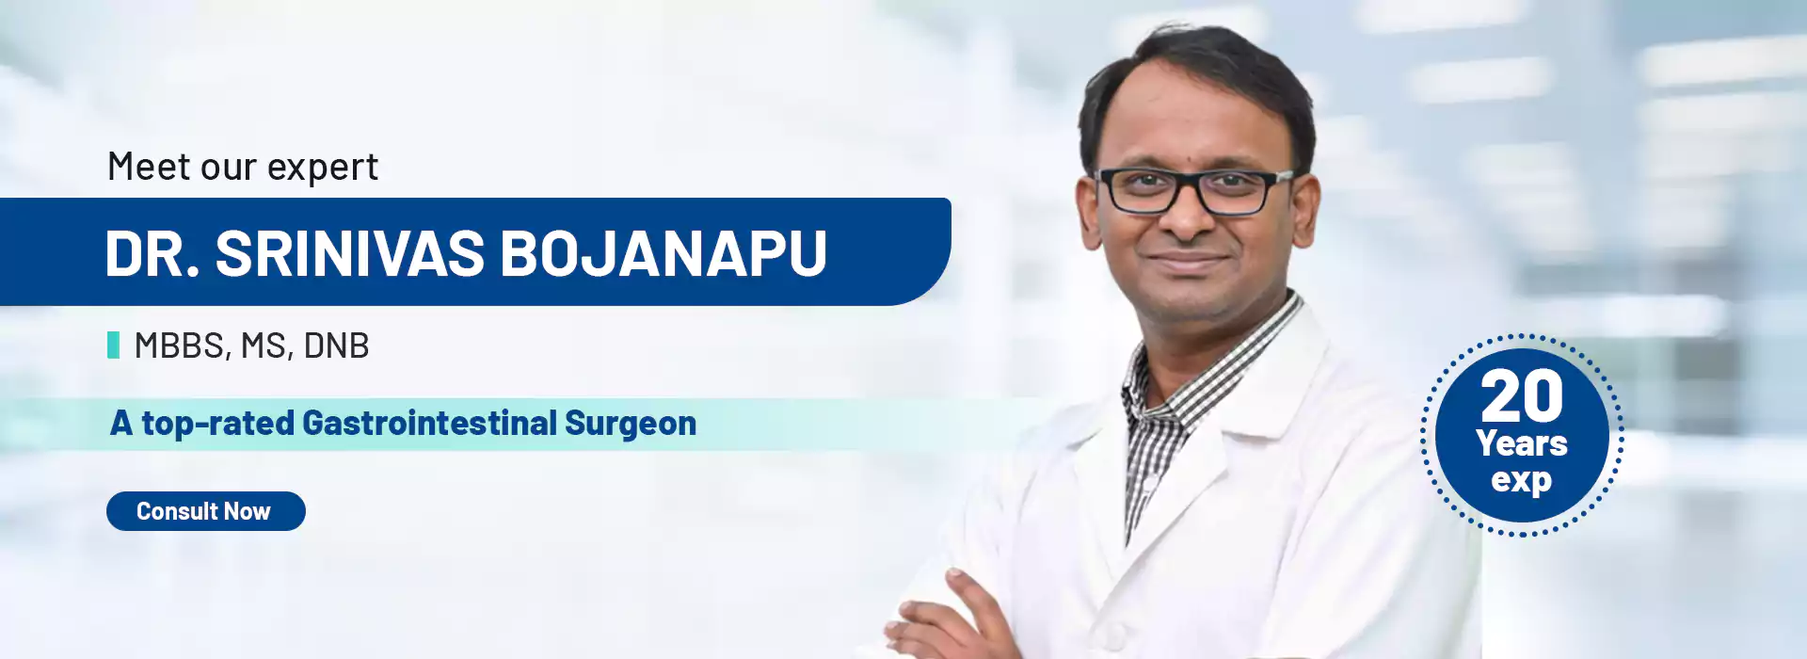
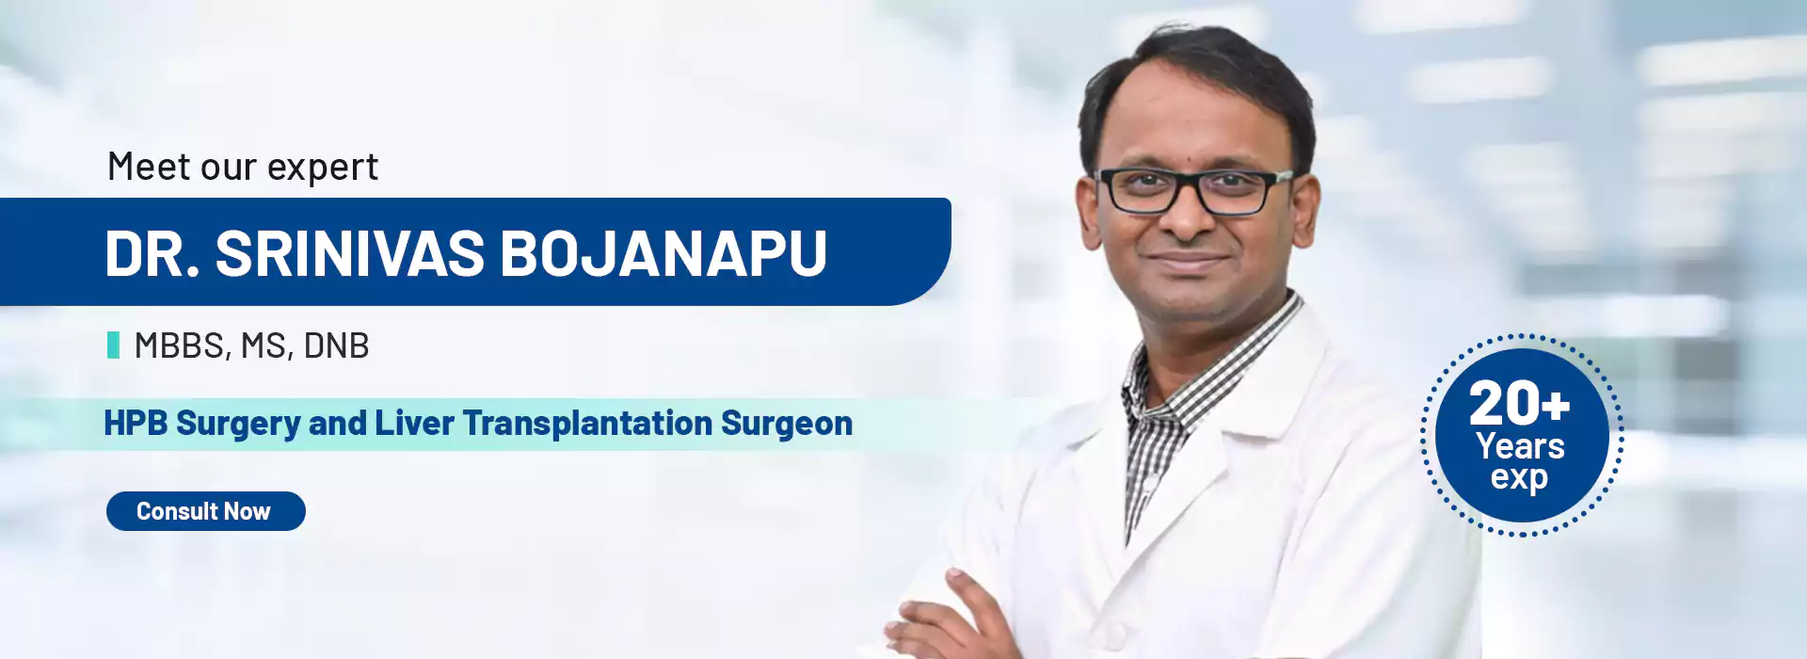
error commit

Changed region(s): [[0.0312, 0.6, 0.4688, 0.66], [0.8125, 0.54, 0.875, 0.75]]

diff --git a/pancreatitis-tumors-of-pancreas.html b/pancreatitis-tumors-of-pancreas.html
@@ -713,7 +713,7 @@ The pancreas is essential for digestion and regulating blood sugar levels, but c
                             <h3 class="widget_title" style="font-size: 18px;text-align: center;margin-bottom: 4px;">DR. SRINIVAS BOJANAPU</h3>
                                </div>
                                <div style="display: flex;justify-content: center;">
-                                <P  style="text-align: center;line-height: 24px;font-size: 14px;margin-top: 6px;">Dr. Srinivas Bojanapu, MBBS, MS, DNB, is a top-rated Gastrointestinal Surgeon with 20 years’ experience.</P>
+                                <P  style="text-align: center;line-height: 24px;font-size: 14px;margin-top: 6px;">Dr. Srinivas Bojanapu, MBBS, MS, DNB, is a top-rated Gastrointestinal Surgeon with 20+ years’ experience.</P>
                                </div>
                             </div>
                             <h3 style="font-size: 20px;margin-bottom: 18px;margin-top: 10px;" class="widget_title">Pancreatitis & Tumors Of Pancreas</h3>
@@ -740,7 +740,7 @@ The pancreas is essential for digestion and regulating blood sugar levels, but c
                                         <i class="fal fa-shopping-cart"></i>
                                         <span class="badge">5</span>
                                     </button> -->
-                                    <a  style="background-color: #3fd2c7;color: white;padding: 10px 20px ;" href="contact.html">Make Appointment<i class="fas fa-arrow-right ms-1"></i></a>
+                                    <a  style="background-color: #3fd2c7;color: white;padding: 10px 20px ;" href="tel:87478 74888">Make Appointment<i class="fas fa-arrow-right ms-1"></i></a>
                                 </div>
 
                                 <iframe src="https://www.google.com/maps/embed?pb=!1m18!1m12!1m3!1d3889.8250915873705!2d77.66010747470473!3d12.85457108745015!2m3!1f0!2f0!3f0!3m2!1i1024!2i768!4f13.1!3m3!1m2!1s0x3bae6c995c78377f%3A0x215832c1388cb662!2sKauvery%20Hospital!5e0!3m2!1sen!2sin!4v1725948629357!5m2!1sen!2sin" style="border:0;width: 100%;height: 150px;border: 1px solid rgb(215, 215, 215);border-radius: 10px;margin-top: 20px;" allowfullscreen="" loading="lazy" referrerpolicy="no-referrer-when-downgrade"></iframe>
@@ -748,7 +748,7 @@ The pancreas is essential for digestion and regulating blood sugar levels, but c
                             <P  style="text-align: center;line-height: 24px;font-size: 14px;margin-top: 10px;margin-bottom: 10px;">No 92, Hubli Survey, 1 B, Hewlett Packard Avenue, Konappana Agrahara, Electronic City, Bengaluru, Karnataka 560100</P>
                                 <div style="display: flex;justify-content: center;" class="header-button">
                                     
-                                    <a  style="background-color: #3fd2c7;color: white;padding: 10px 20px ;" href="contact.html">Make Appointment<i class="fas fa-arrow-right ms-1"></i></a>
+                                    <a  style="background-color: #3fd2c7;color: white;padding: 10px 20px ;" href="tel:87478 74888">Make Appointment<i class="fas fa-arrow-right ms-1"></i></a>
                                 </div>
                         </div>
                         <!-- <div class="widget widget_download  ">

diff --git a/tumors-of-liver.html b/tumors-of-liver.html
@@ -660,7 +660,7 @@ Tumors of the liver can be broadly categorized into primary and secondary types.
                             <h3 class="widget_title" style="font-size: 18px;text-align: center;margin-bottom: 4px;">DR. SRINIVAS BOJANAPU</h3>
                                </div>
                                <div style="display: flex;justify-content: center;">
-                                <P  style="text-align: center;line-height: 24px;font-size: 14px;margin-top: 6px;">Dr. Srinivas Bojanapu, MBBS, MS, DNB, is a top-rated Gastrointestinal Surgeon with 20 years’ experience.</P>
+                                <P  style="text-align: center;line-height: 24px;font-size: 14px;margin-top: 6px;">Dr. Srinivas Bojanapu, MBBS, MS, DNB, is a top-rated Gastrointestinal Surgeon with 20+ years’ experience.</P>
                                </div>
                             </div>
                             <h3 style="font-size: 20px;margin-bottom: 18px;margin-top: 10px;" class="widget_title">Tumors Of Liver</h3>
@@ -683,7 +683,7 @@ Tumors of the liver can be broadly categorized into primary and secondary types.
                                         <i class="fal fa-shopping-cart"></i>
                                         <span class="badge">5</span>
                                     </button> -->
-                                    <a  style="background-color: #3fd2c7;color: white;padding: 10px 20px ;" href="contact.html">Make Appointment<i class="fas fa-arrow-right ms-1"></i></a>
+                                    <a  style="background-color: #3fd2c7;color: white;padding: 10px 20px ;" href="tel:87478 74888">Make Appointment<i class="fas fa-arrow-right ms-1"></i></a>
                                 </div>
 
                                 <iframe src="https://www.google.com/maps/embed?pb=!1m18!1m12!1m3!1d3889.8250915873705!2d77.66010747470473!3d12.85457108745015!2m3!1f0!2f0!3f0!3m2!1i1024!2i768!4f13.1!3m3!1m2!1s0x3bae6c995c78377f%3A0x215832c1388cb662!2sKauvery%20Hospital!5e0!3m2!1sen!2sin!4v1725948629357!5m2!1sen!2sin" style="border:0;width: 100%;height: 150px;border: 1px solid rgb(215, 215, 215);border-radius: 10px;margin-top: 20px;" allowfullscreen="" loading="lazy" referrerpolicy="no-referrer-when-downgrade"></iframe>
@@ -691,7 +691,7 @@ Tumors of the liver can be broadly categorized into primary and secondary types.
                             <P  style="text-align: center;line-height: 24px;font-size: 14px;margin-top: 10px;margin-bottom: 10px;">No 92, Hubli Survey, 1 B, Hewlett Packard Avenue, Konappana Agrahara, Electronic City, Bengaluru, Karnataka 560100</P>
                                 <div style="display: flex;justify-content: center;" class="header-button">
                                     
-                                    <a  style="background-color: #3fd2c7;color: white;padding: 10px 20px ;" href="contact.html">Make Appointment<i class="fas fa-arrow-right ms-1"></i></a>
+                                    <a  style="background-color: #3fd2c7;color: white;padding: 10px 20px ;" href="tel:87478 74888">Make Appointment<i class="fas fa-arrow-right ms-1"></i></a>
                                 </div>
                         </div>
                         <!-- <div class="widget widget_download  ">

diff --git a/other-diseases-of-the-colon-and-small-intestine.html b/other-diseases-of-the-colon-and-small-intestine.html
@@ -686,7 +686,7 @@ Hero Area
                             <h3 class="widget_title" style="font-size: 18px;text-align: center;margin-bottom: 4px;">DR. SRINIVAS BOJANAPU</h3>
                                </div>
                                <div style="display: flex;justify-content: center;">
-                                <P  style="text-align: center;line-height: 24px;font-size: 14px;margin-top: 6px;">Dr. Srinivas Bojanapu, MBBS, MS, DNB, is a top-rated Gastrointestinal Surgeon with 20 years’ experience.</P>
+                                <P  style="text-align: center;line-height: 24px;font-size: 14px;margin-top: 6px;">Dr. Srinivas Bojanapu, MBBS, MS, DNB, is a top-rated Gastrointestinal Surgeon with 20+ years’ experience.</P>
                                </div>
                             </div>
                             <h3 style="font-size: 20px;margin-bottom: 18px;margin-top: 10px;" class="widget_title">Other Diseases Of The Colon (large intestine) And Small Intestine</h3>
@@ -712,7 +712,7 @@ Hero Area
                                         <i class="fal fa-shopping-cart"></i>
                                         <span class="badge">5</span>
                                     </button> -->
-                                    <a  style="background-color: #3fd2c7;color: white;padding: 10px 20px ;" href="contact.html">Make Appointment<i class="fas fa-arrow-right ms-1"></i></a>
+                                    <a  style="background-color: #3fd2c7;color: white;padding: 10px 20px ;" href="tel:87478 74888">Make Appointment<i class="fas fa-arrow-right ms-1"></i></a>
                                 </div>
 
                                 <iframe src="https://www.google.com/maps/embed?pb=!1m18!1m12!1m3!1d3889.8250915873705!2d77.66010747470473!3d12.85457108745015!2m3!1f0!2f0!3f0!3m2!1i1024!2i768!4f13.1!3m3!1m2!1s0x3bae6c995c78377f%3A0x215832c1388cb662!2sKauvery%20Hospital!5e0!3m2!1sen!2sin!4v1725948629357!5m2!1sen!2sin" style="border:0;width: 100%;height: 150px;border: 1px solid rgb(215, 215, 215);border-radius: 10px;margin-top: 20px;" allowfullscreen="" loading="lazy" referrerpolicy="no-referrer-when-downgrade"></iframe>
@@ -720,7 +720,7 @@ Hero Area
                             <P  style="text-align: center;line-height: 24px;font-size: 14px;margin-top: 10px;margin-bottom: 10px;">No 92, Hubli Survey, 1 B, Hewlett Packard Avenue, Konappana Agrahara, Electronic City, Bengaluru, Karnataka 560100</P>
                                 <div style="display: flex;justify-content: center;" class="header-button">
                                     
-                                    <a  style="background-color: #3fd2c7;color: white;padding: 10px 20px ;" href="contact.html">Make Appointment<i class="fas fa-arrow-right ms-1"></i></a>
+                                    <a  style="background-color: #3fd2c7;color: white;padding: 10px 20px ;" href="tel:87478 74888">Make Appointment<i class="fas fa-arrow-right ms-1"></i></a>
                                 </div>
                         </div>
                         <!-- <div class="widget widget_download  ">

diff --git a/best-treatment-for-colon-and-rectal-cancer.html b/best-treatment-for-colon-and-rectal-cancer.html
@@ -663,7 +663,7 @@ Hero Area
                             <h3 class="widget_title" style="font-size: 18px;text-align: center;margin-bottom: 4px;">DR. SRINIVAS BOJANAPU</h3>
                                </div>
                                <div style="display: flex;justify-content: center;">
-                                <P  style="text-align: center;line-height: 24px;font-size: 14px;margin-top: 6px;">Dr. Srinivas Bojanapu, MBBS, MS, DNB, is a top-rated Gastrointestinal Surgeon with 20 years’ experience.</P>
+                                <P  style="text-align: center;line-height: 24px;font-size: 14px;margin-top: 6px;">Dr. Srinivas Bojanapu, MBBS, MS, DNB, is a top-rated Gastrointestinal Surgeon with 20+ years’ experience.</P>
                                </div>
                             </div>
                             <h3 style="font-size: 20px;margin-bottom: 18px;margin-top: 10px;" class="widget_title">Best Treatment for Colon and Rectal Cancer</h3>
@@ -687,7 +687,7 @@ Hero Area
                                         <i class="fal fa-shopping-cart"></i>
                                         <span class="badge">5</span>
                                     </button> -->
-                                    <a  style="background-color: #3fd2c7;color: white;padding: 10px 20px ;" href="contact.html">Make Appointment<i class="fas fa-arrow-right ms-1"></i></a>
+                                    <a  style="background-color: #3fd2c7;color: white;padding: 10px 20px ;" href="tel:87478 74888">Make Appointment<i class="fas fa-arrow-right ms-1"></i></a>
                                 </div>
 
                                 <iframe src="https://www.google.com/maps/embed?pb=!1m18!1m12!1m3!1d3889.8250915873705!2d77.66010747470473!3d12.85457108745015!2m3!1f0!2f0!3f0!3m2!1i1024!2i768!4f13.1!3m3!1m2!1s0x3bae6c995c78377f%3A0x215832c1388cb662!2sKauvery%20Hospital!5e0!3m2!1sen!2sin!4v1725948629357!5m2!1sen!2sin" style="border:0;width: 100%;height: 150px;border: 1px solid rgb(215, 215, 215);border-radius: 10px;margin-top: 20px;" allowfullscreen="" loading="lazy" referrerpolicy="no-referrer-when-downgrade"></iframe>
@@ -695,7 +695,7 @@ Hero Area
                             <P  style="text-align: center;line-height: 24px;font-size: 14px;margin-top: 10px;margin-bottom: 10px;">No 92, Hubli Survey, 1 B, Hewlett Packard Avenue, Konappana Agrahara, Electronic City, Bengaluru, Karnataka 560100</P>
                                 <div style="display: flex;justify-content: center;" class="header-button">
                                     
-                                    <a  style="background-color: #3fd2c7;color: white;padding: 10px 20px ;" href="contact.html">Make Appointment<i class="fas fa-arrow-right ms-1"></i></a>
+                                    <a  style="background-color: #3fd2c7;color: white;padding: 10px 20px ;" href="tel:87478 74888">Make Appointment<i class="fas fa-arrow-right ms-1"></i></a>
                                 </div>
                         </div>
                         <!-- <div class="widget widget_download  ">

diff --git a/cancer-of-stomach.html b/cancer-of-stomach.html
@@ -661,7 +661,7 @@ Hero Area
                             <h3 class="widget_title" style="font-size: 18px;text-align: center;margin-bottom: 4px;">DR. SRINIVAS BOJANAPU</h3>
                                </div>
                                <div style="display: flex;justify-content: center;">
-                                <P  style="text-align: center;line-height: 24px;font-size: 14px;margin-top: 6px;">Dr. Srinivas Bojanapu, MBBS, MS, DNB, is a top-rated Gastrointestinal Surgeon with 20 years’ experience.</P>
+                                <P  style="text-align: center;line-height: 24px;font-size: 14px;margin-top: 6px;">Dr. Srinivas Bojanapu, MBBS, MS, DNB, is a top-rated Gastrointestinal Surgeon with 20+ years’ experience.</P>
                                </div>
                             </div>
                             <h3 style="font-size: 20px;margin-bottom: 18px;margin-top: 10px;" class="widget_title">Pancreatitis & Tumors Of Pancreas</h3>
@@ -684,7 +684,7 @@ Hero Area
                                         <i class="fal fa-shopping-cart"></i>
                                         <span class="badge">5</span>
                                     </button> -->
-                                    <a  style="background-color: #3fd2c7;color: white;padding: 10px 20px ;" href="contact.html">Make Appointment<i class="fas fa-arrow-right ms-1"></i></a>
+                                    <a  style="background-color: #3fd2c7;color: white;padding: 10px 20px ;" href="tel:87478 74888">Make Appointment<i class="fas fa-arrow-right ms-1"></i></a>
                                 </div>
 
                                 <iframe src="https://www.google.com/maps/embed?pb=!1m18!1m12!1m3!1d3889.8250915873705!2d77.66010747470473!3d12.85457108745015!2m3!1f0!2f0!3f0!3m2!1i1024!2i768!4f13.1!3m3!1m2!1s0x3bae6c995c78377f%3A0x215832c1388cb662!2sKauvery%20Hospital!5e0!3m2!1sen!2sin!4v1725948629357!5m2!1sen!2sin" style="border:0;width: 100%;height: 150px;border: 1px solid rgb(215, 215, 215);border-radius: 10px;margin-top: 20px;" allowfullscreen="" loading="lazy" referrerpolicy="no-referrer-when-downgrade"></iframe>
@@ -692,7 +692,7 @@ Hero Area
                             <P  style="text-align: center;line-height: 24px;font-size: 14px;margin-top: 10px;margin-bottom: 10px;">No 92, Hubli Survey, 1 B, Hewlett Packard Avenue, Konappana Agrahara, Electronic City, Bengaluru, Karnataka 560100</P>
                                 <div style="display: flex;justify-content: center;" class="header-button">
                                     
-                                    <a  style="background-color: #3fd2c7;color: white;padding: 10px 20px ;" href="contact.html">Make Appointment<i class="fas fa-arrow-right ms-1"></i></a>
+                                    <a  style="background-color: #3fd2c7;color: white;padding: 10px 20px ;" href="tel:87478 74888">Make Appointment<i class="fas fa-arrow-right ms-1"></i></a>
                                 </div>
                         </div>
                         <!-- <div class="widget widget_download  ">

diff --git a/gall-bladder-and-biliary-tree.html b/gall-bladder-and-biliary-tree.html
@@ -682,7 +682,7 @@ Hero Area
                             <h3 class="widget_title" style="font-size: 18px;text-align: center;margin-bottom: 4px;">DR. SRINIVAS BOJANAPU</h3>
                                </div>
                                <div style="display: flex;justify-content: center;">
-                                <P  style="text-align: center;line-height: 24px;font-size: 14px;margin-top: 6px;">Dr. Srinivas Bojanapu, MBBS, MS, DNB, is a top-rated Gastrointestinal Surgeon with 20 years’ experience.</P>
+                                <P  style="text-align: center;line-height: 24px;font-size: 14px;margin-top: 6px;">Dr. Srinivas Bojanapu, MBBS, MS, DNB, is a top-rated Gastrointestinal Surgeon with 20+ years’ experience.</P>
                                </div>
                             </div>
                             <h3 style="font-size: 20px;margin-bottom: 18px;margin-top: 10px;" class="widget_title">Gall bladder and Biliary tree</h3>
@@ -707,7 +707,7 @@ Hero Area
                                         <i class="fal fa-shopping-cart"></i>
                                         <span class="badge">5</span>
                                     </button> -->
-                                    <a  style="background-color: #3fd2c7;color: white;padding: 10px 20px ;" href="contact.html">Make Appointment<i class="fas fa-arrow-right ms-1"></i></a>
+                                    <a  style="background-color: #3fd2c7;color: white;padding: 10px 20px ;" href="tel:87478 74888">Make Appointment<i class="fas fa-arrow-right ms-1"></i></a>
                                 </div>
 
                                 <iframe src="https://www.google.com/maps/embed?pb=!1m18!1m12!1m3!1d3889.8250915873705!2d77.66010747470473!3d12.85457108745015!2m3!1f0!2f0!3f0!3m2!1i1024!2i768!4f13.1!3m3!1m2!1s0x3bae6c995c78377f%3A0x215832c1388cb662!2sKauvery%20Hospital!5e0!3m2!1sen!2sin!4v1725948629357!5m2!1sen!2sin" style="border:0;width: 100%;height: 150px;border: 1px solid rgb(215, 215, 215);border-radius: 10px;margin-top: 20px;" allowfullscreen="" loading="lazy" referrerpolicy="no-referrer-when-downgrade"></iframe>
@@ -715,7 +715,7 @@ Hero Area
                             <P  style="text-align: center;line-height: 24px;font-size: 14px;margin-top: 10px;margin-bottom: 10px;">No 92, Hubli Survey, 1 B, Hewlett Packard Avenue, Konappana Agrahara, Electronic City, Bengaluru, Karnataka 560100</P>
                                 <div style="display: flex;justify-content: center;" class="header-button">
                                     
-                                    <a  style="background-color: #3fd2c7;color: white;padding: 10px 20px ;" href="contact.html">Make Appointment<i class="fas fa-arrow-right ms-1"></i></a>
+                                    <a  style="background-color: #3fd2c7;color: white;padding: 10px 20px ;" href="tel:87478 74888">Make Appointment<i class="fas fa-arrow-right ms-1"></i></a>
                                 </div>
                         </div>
                         <!-- <div class="widget widget_download  ">

diff --git a/spleen-removal-or-splenectomy.html b/spleen-removal-or-splenectomy.html
@@ -665,7 +665,7 @@ Hero Area
                             <h3 class="widget_title" style="font-size: 18px;text-align: center;margin-bottom: 4px;">DR. SRINIVAS BOJANAPU</h3>
                                </div>
                                <div style="display: flex;justify-content: center;">
-                                <P  style="text-align: center;line-height: 24px;font-size: 14px;margin-top: 6px;">Dr. Srinivas Bojanapu, MBBS, MS, DNB, is a top-rated Gastrointestinal Surgeon with 20 years’ experience.</P>
+                                <P  style="text-align: center;line-height: 24px;font-size: 14px;margin-top: 6px;">Dr. Srinivas Bojanapu, MBBS, MS, DNB, is a top-rated Gastrointestinal Surgeon with 20+ years’ experience.</P>
                                </div>
                             </div>
                             <h3 style="font-size: 20px;margin-bottom: 18px;margin-top: 10px;" class="widget_title">Spleen removal or splenectomy</h3>
@@ -688,7 +688,7 @@ Hero Area
                                         <i class="fal fa-shopping-cart"></i>
                                         <span class="badge">5</span>
                                     </button> -->
-                                    <a  style="background-color: #3fd2c7;color: white;padding: 10px 20px ;" href="contact.html">Make Appointment<i class="fas fa-arrow-right ms-1"></i></a>
+                                    <a  style="background-color: #3fd2c7;color: white;padding: 10px 20px ;" href="tel:87478 74888">Make Appointment<i class="fas fa-arrow-right ms-1"></i></a>
                                 </div>
 
                                 <iframe src="https://www.google.com/maps/embed?pb=!1m18!1m12!1m3!1d3889.8250915873705!2d77.66010747470473!3d12.85457108745015!2m3!1f0!2f0!3f0!3m2!1i1024!2i768!4f13.1!3m3!1m2!1s0x3bae6c995c78377f%3A0x215832c1388cb662!2sKauvery%20Hospital!5e0!3m2!1sen!2sin!4v1725948629357!5m2!1sen!2sin" style="border:0;width: 100%;height: 150px;border: 1px solid rgb(215, 215, 215);border-radius: 10px;margin-top: 20px;" allowfullscreen="" loading="lazy" referrerpolicy="no-referrer-when-downgrade"></iframe>
@@ -696,7 +696,7 @@ Hero Area
                             <P  style="text-align: center;line-height: 24px;font-size: 14px;margin-top: 10px;margin-bottom: 10px;">No 92, Hubli Survey, 1 B, Hewlett Packard Avenue, Konappana Agrahara, Electronic City, Bengaluru, Karnataka 560100</P>
                                 <div style="display: flex;justify-content: center;" class="header-button">
                                     
-                                    <a  style="background-color: #3fd2c7;color: white;padding: 10px 20px ;" href="contact.html">Make Appointment<i class="fas fa-arrow-right ms-1"></i></a>
+                                    <a  style="background-color: #3fd2c7;color: white;padding: 10px 20px ;" href="tel:87478 74888">Make Appointment<i class="fas fa-arrow-right ms-1"></i></a>
                                 </div>
                         </div>
                         <!-- <div class="widget widget_download  ">

diff --git a/esophagus-treatment.html b/esophagus-treatment.html
@@ -670,7 +670,7 @@ Hero Area
                             <h3 class="widget_title" style="font-size: 18px;text-align: center;margin-bottom: 4px;">DR. SRINIVAS BOJANAPU</h3>
                                </div>
                                <div style="display: flex;justify-content: center;">
-                                <P  style="text-align: center;line-height: 24px;font-size: 14px;margin-top: 6px;">Dr. Srinivas Bojanapu, MBBS, MS, DNB, is a top-rated Gastrointestinal Surgeon with 20 years’ experience.</P>
+                                <P  style="text-align: center;line-height: 24px;font-size: 14px;margin-top: 6px;">Dr. Srinivas Bojanapu, MBBS, MS, DNB, is a top-rated Gastrointestinal Surgeon with 20+ years’ experience.</P>
                                </div>
                             </div>
                             <h3 style="font-size: 20px;margin-bottom: 18px;margin-top: 10px;" class="widget_title">Esophagus Treatment</h3>
@@ -694,7 +694,7 @@ Hero Area
                                         <i class="fal fa-shopping-cart"></i>
                                         <span class="badge">5</span>
                                     </button> -->
-                                    <a  style="background-color: #3fd2c7;color: white;padding: 10px 20px ;" href="contact.html">Make Appointment<i class="fas fa-arrow-right ms-1"></i></a>
+                                    <a  style="background-color: #3fd2c7;color: white;padding: 10px 20px ;" href="tel:87478 74888">Make Appointment<i class="fas fa-arrow-right ms-1"></i></a>
                                 </div>
 
                                 <iframe src="https://www.google.com/maps/embed?pb=!1m18!1m12!1m3!1d3889.8250915873705!2d77.66010747470473!3d12.85457108745015!2m3!1f0!2f0!3f0!3m2!1i1024!2i768!4f13.1!3m3!1m2!1s0x3bae6c995c78377f%3A0x215832c1388cb662!2sKauvery%20Hospital!5e0!3m2!1sen!2sin!4v1725948629357!5m2!1sen!2sin" style="border:0;width: 100%;height: 150px;border: 1px solid rgb(215, 215, 215);border-radius: 10px;margin-top: 20px;" allowfullscreen="" loading="lazy" referrerpolicy="no-referrer-when-downgrade"></iframe>
@@ -702,7 +702,7 @@ Hero Area
                             <P  style="text-align: center;line-height: 24px;font-size: 14px;margin-top: 10px;margin-bottom: 10px;">No 92, Hubli Survey, 1 B, Hewlett Packard Avenue, Konappana Agrahara, Electronic City, Bengaluru, Karnataka 560100</P>
                                 <div style="display: flex;justify-content: center;" class="header-button">
                                     
-                                    <a  style="background-color: #3fd2c7;color: white;padding: 10px 20px ;" href="contact.html">Make Appointment<i class="fas fa-arrow-right ms-1"></i></a>
+                                    <a  style="background-color: #3fd2c7;color: white;padding: 10px 20px ;" href="tel:87478 74888">Make Appointment<i class="fas fa-arrow-right ms-1"></i></a>
                                 </div>
                         </div>
                         <!-- <div class="widget widget_download  ">

diff --git a/contact.html b/contact.html
@@ -594,7 +594,7 @@ Hero Area
                         </div>
                         APPOINTMENT NOW
                     </span>
-                    <h2 class="sec-title">Ready to discuss your treatment with <span style="color: #00458b;"> Dr. Bojanapu</span></h2>
+                    <h2 class="sec-title">Ready to discuss your treatment with <span style="color: #00458b;"> Dr. Srinivas Bojanapu</span></h2>
                 </div>
                 <p class="mt-n2 mb-30 text-xl-start text-center">Expertly advance patient care with comprehensive treatment options and personalized plans. Efficiently guide health journeys through expert medical strategies and dedicated support. Continuously enhance outcomes using cutting-edge techniques and ongoing patient engagement.</p>
                 <div style="padding-top: 15px;" class="contact-feature-wrap">
@@ -629,10 +629,7 @@ Hero Area
                             <input type="email" class="form-control" name="email" id="email" placeholder="Enter Your Email">
                         </div>
                         <div class="form-group col-sm-6">
-                            <select name="subject" id="subject" class="form-select">
-                                <option value="" disabled selected hidden>Select Subject</option>
-                                
-                            </select>
+                            <input type="email" class="form-control" name="email" id="email" placeholder="Treatment">
                         </div>
                         <div class="form-group col-sm-6">
                             <input type="tel" class="form-control" name="number" id="number" placeholder="Phone Number">
@@ -652,7 +649,7 @@ Hero Area
 </div>
 
 
-<section style="padding-top: 70px;">
+<section style="padding-top: 70px;padding-bottom: 70px;">
     <div class="container">
         <div class="row">
             <div class="col-lg-6">
@@ -663,7 +660,7 @@ Hero Area
                 </div>
             </div>
             <div class="col-lg-6">
-                <h2 style="font-size: 32px;margin-bottom: 12px;" class="sec-title"> <span style="color: #00458b;">Kauvery Hospital</span></h2>
+                <h2 style="font-size: 32px;margin-bottom: 12px;" class="sec-title"> <span style="color: #00458b;">Kauvery Hospital (Electronic City)</span></h2>
                 <p>No 92, Hubli Survey, 1 B, Hewlett Packard Avenue, Konappana Agrahara, Electronic City, Bengaluru, Karnataka 560100</p>
             
                 <div class="map-sec">

diff --git a/index.html b/index.html
@@ -673,7 +673,7 @@ Servce Area
                                     </div>
                                     <h3 class="box-title"><a href="service-details.html">Surgical Expert</a></h3>
                                     <p class="service-featured_text">Dr. Srinivas Bojanapu is a renowned, trusted, and highly skilled surgical expert.</p>
-                                    <a style="background-color: #3fd2c7;" href="about.html" class="icon-btn"><i style="color: #00458b;" class="fa-regular fa-arrow-right"></i></a>
+                                    <a style="background-color: #3fd2c7;" href="about.html" class="icon-btn"><i style="color: white;" class="fa-regular fa-arrow-right"></i></a>
                                 </div>
                             </div>
                         </div>
@@ -687,7 +687,7 @@ Servce Area
                                     <h3 class="box-title"><a href="service-details.html">Skilled Practitioner</a></h3>
                                     <p class="service-featured_text">A highly skilled practitioner known for exceptional expertise and patient care.</p>
                                     
-                                    <a style="background-color:#3fd2c7;" href="about.html" class="icon-btn"><i style="color: #00458b;" class="fa-regular fa-arrow-right"></i></a>
+                                    <a style="background-color:#3fd2c7;" href="about.html" class="icon-btn"><i style="color: white;" class="fa-regular fa-arrow-right"></i></a>
                                 </div>
                             </div>
                         </div>
@@ -701,7 +701,7 @@ Servce Area
                                     <h3 class="box-title"><a href="service-details.html">Medical Excellence</a></h3>
                                     <p class="service-featured_text">Medical excellence ensures superior care and consistently excellent outcomes.</p>
                                     
-                                    <a style="background-color: #3fd2c7;" href="about.html" class="icon-btn"><i style="color: #00458b;" class="fa-regular fa-arrow-right"></i></a>
+                                    <a style="background-color: #3fd2c7;" href="about.html" class="icon-btn"><i style="color: white;" class="fa-regular fa-arrow-right"></i></a>
                                 </div>
                             </div>
                         </div>

diff --git a/liver-cirrhosis-diseases.html b/liver-cirrhosis-diseases.html
@@ -547,7 +547,7 @@ Hero Area
                             <h3 class="widget_title" style="font-size: 18px;text-align: center;margin-bottom: 4px;">DR. SRINIVAS BOJANAPU</h3>
                                </div>
                                <div style="display: flex;justify-content: center;">
-                                <P  style="text-align: center;line-height: 24px;font-size: 14px;margin-top: 6px;">Dr. Srinivas Bojanapu, MBBS, MS, DNB, is a top-rated Gastrointestinal Surgeon with 20 years’ experience.</P>
+                                <P  style="text-align: center;line-height: 24px;font-size: 14px;margin-top: 6px;">Dr. Srinivas Bojanapu, MBBS, MS, DNB, is a top-rated Gastrointestinal Surgeon with 20+ years’ experience.</P>
                                </div>
                             </div>
                             <h3 style="font-size: 20px;margin-bottom: 18px;margin-top: 10px;" class="widget_title">Liver Transplantation</h3>
@@ -603,7 +603,7 @@ Hero Area
 <p>Liver cirrhosis can affect many other organs of the body like kidney, lungs, etc. hence a patient who is being considered for liver transplantation will have to undergo a thorough evaluation to ascertain the cause of liver disease and subsequently fitness to undergo such a major operation like liver transplantation. </p>
 <div style="display: flex;justify-content: left;" class="header-button">
                                     
-    <a  style="background-color: #3fd2c7;color: white;padding: 10px 20px ;" href="contact.html">Make Appointment<i class="fas fa-arrow-right ms-1"></i></a>
+    <a  style="background-color: #3fd2c7;color: white;padding: 10px 20px ;" href="tel:87478 74888">Make Appointment<i class="fas fa-arrow-right ms-1"></i></a>
 </div>
                     </div>
                 </div>

diff --git a/success-rate-of-liver-transplant.html b/success-rate-of-liver-transplant.html
@@ -547,7 +547,7 @@ Hero Area
                             <h3 class="widget_title" style="font-size: 18px;text-align: center;margin-bottom: 4px;">DR. SRINIVAS BOJANAPU</h3>
                                </div>
                                <div style="display: flex;justify-content: center;">
-                                <P  style="text-align: center;line-height: 24px;font-size: 14px;margin-top: 6px;">Dr. Srinivas Bojanapu, MBBS, MS, DNB, is a top-rated Gastrointestinal Surgeon with 20 years’ experience.</P>
+                                <P  style="text-align: center;line-height: 24px;font-size: 14px;margin-top: 6px;">Dr. Srinivas Bojanapu, MBBS, MS, DNB, is a top-rated Gastrointestinal Surgeon with 20+ years’ experience.</P>
                                </div>
                             </div>
                             <h3 style="font-size: 20px;margin-bottom: 18px;margin-top: 10px;" class="widget_title">Liver Transplantation</h3>
@@ -628,7 +628,7 @@ Hero Area
     </div>
 <div style="display: flex;justify-content: left;" class="header-button">
                                     
-    <a  style="background-color: #3fd2c7;color: white;padding: 10px 20px ;" href="contact.html">Make Appointment<i class="fas fa-arrow-right ms-1"></i></a>
+    <a  style="background-color: #3fd2c7;color: white;padding: 10px 20px ;" href="tel:87478 74888">Make Appointment<i class="fas fa-arrow-right ms-1"></i></a>
 </div>
                     </div>
                 </div>
